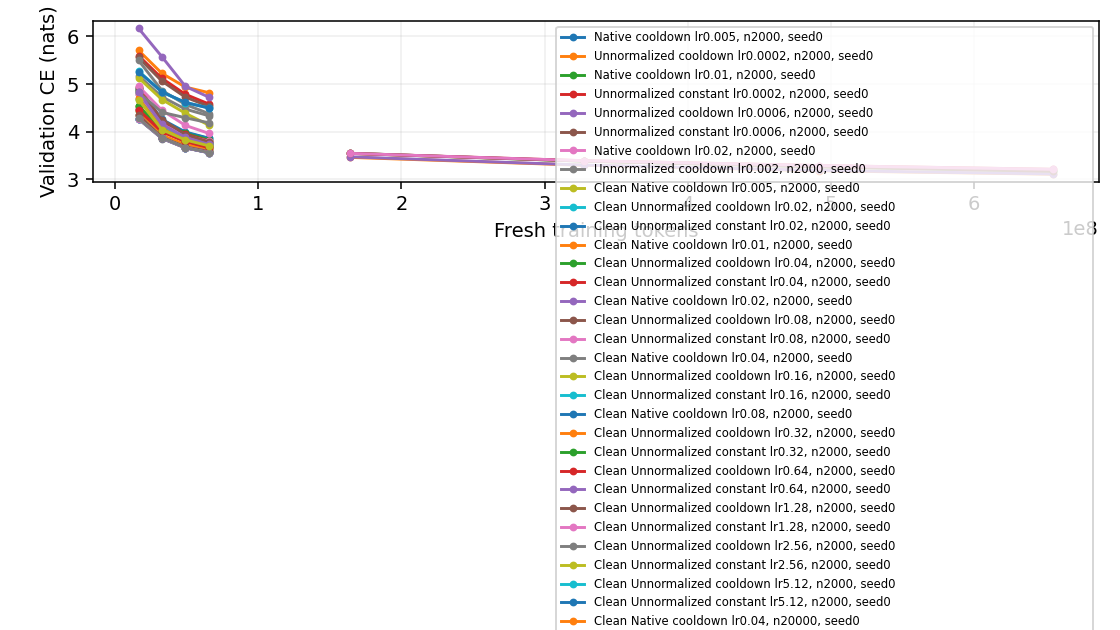
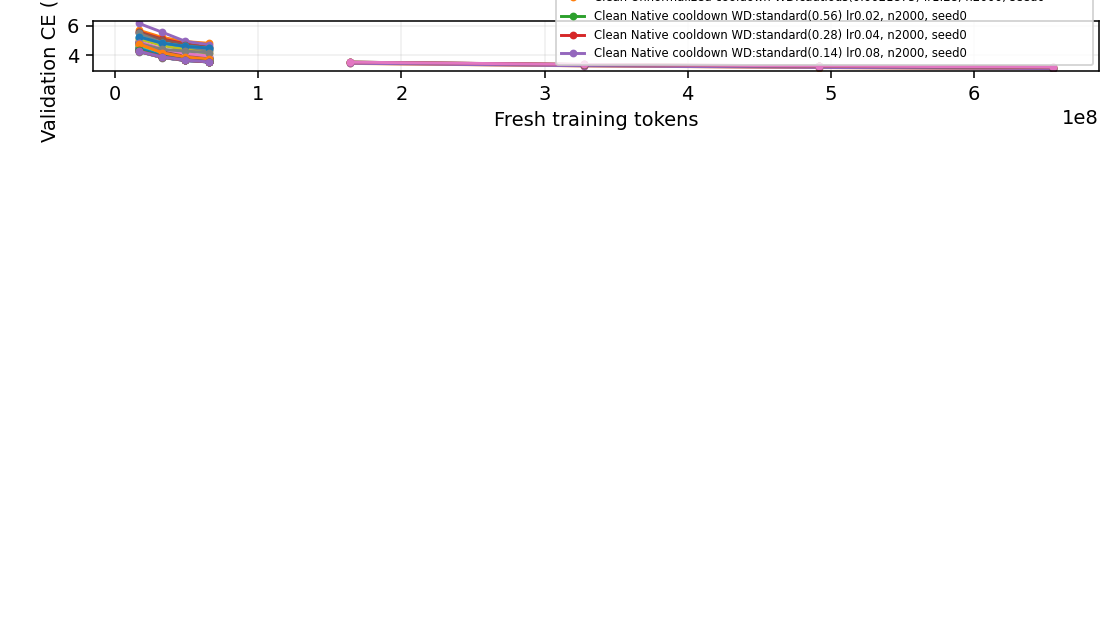
Update live Muon experiment results

Changed region(s): [[0.0312, 0.0, 1.0, 0.9952], [0.9688, 0.3317, 1.0, 0.3921]]

diff --git a/research/unnormalized_muon/DETAILED_EVAL.md b/research/unnormalized_muon/DETAILED_EVAL.md
@@ -32,6 +32,12 @@ CLI lambda = 0.28*(0.04/CLI_eta)*strength matches nominal eta*lambda exposure ac
 | normalized | cautious | 0.25 | 0.04 | 0.07 | 2000 | 3.561607 | 0.40773–0.81545 |
 | normalized | cautious | 0.25 | 0.08 | 0.035 | 2000 | 3.561807 | 0.40773–0.81545 |
 | unnormalized | cautious | 0.25 | 0.16 | 0.0175 | 2000 | 3.703818 | 0.40773–0.81545 |
+| unnormalized | cautious | 0.25 | 0.32 | 0.00875 | 2000 | 3.677685 | 0.40773–0.81545 |
+| unnormalized | cautious | 0.25 | 0.64 | 0.004375 | 2000 | 3.669621 | 0.40773–0.81545 |
+| unnormalized | cautious | 0.25 | 1.28 | 0.0021875 | 2000 | 3.741636 | 0.40773–0.81545 |
+| normalized | standard | 1 | 0.02 | 0.56 | 2000 | 3.578252 | 1.6309–3.2618 |
+| normalized | standard | 1 | 0.04 | 0.28 | 2000 | 3.568284 | 1.6309–3.2618 |
+| normalized | standard | 1 | 0.08 | 0.14 | 2000 | 3.562765 | 1.6309–3.2618 |
 
 ## FW gap-based step and line search
 
@@ -151,3 +157,14 @@ Oracle: momentum; acceptance: smoothness; compiled candidates: False; radius fac
 
 FW timing components (seconds): direction=104.832, reference=43.252, candidates=80.372, auxiliary=2.291.
 Accepted steps with measured minibatch increase: 62; acceptance has relative BF16-path numerical slack 1e-6. Reference/candidate forwards and all line-search retries are included in training time and total process time.
+
+## Fixed ordinary WD: per-layer and joint gap LR
+
+This subtopic holds the actual unmasked decay coefficient lambda fixed. P_i=Q_i+lambda W_i includes shrinkage. Native Nesterov/five NS/Frobenius are retained; row equilibration and NorMuon remain off. Native finite NS is approximate: spectral ratios are measured without claiming the exact spectral-ball theorem. Optional certified directions are separately labelled.
+
+Per-layer LR uses eta_i=min(1/lambda,[<G_i,P_i>]_+/(L||P_i||F^2)), proposed simultaneously and accepted using the complete-loss summed quadratic bound. One shared backtracked Frobenius L accounts for cross-layer changes; no52-way independent forward search. Joint-uniform shares one actual eta. Joint-native instead searches c_i P_i, clips outer eta at1/(lambda max c_i), and records actual eta_i=c_i eta; it is not a single common FW mixing coefficient.
+
+The shifted reciprocal control uses eta_i(t)=eta_i0/(1+lambda eta_i0*t/2) after40 warmup updates, with native actual eta_i0=CLI_LR*.25*c_i. This corresponds to gamma_i=2/(t+2/(lambda eta_i0)). Auxiliary schedules and native momentum are held consistent, so convex FW guarantees do not apply directly to this stochastic hybrid optimizer.
+
+| Run | Mode | Fixed lambda | Updates | Val CE | Extra batch forwards | Process sec |
+|---|---|---:|---:|---:|---:|---:|

diff --git a/research/unnormalized_muon/RESULTS.md b/research/unnormalized_muon/RESULTS.md
@@ -65,10 +65,16 @@ One B300 per job. CE is token cross-entropy (nats); lower is better. Rows with d
 | um-wd-grid-0-1-norm-lr0p04 | Clean Native cooldown WD:cautious(0.07) | 2000 | 0 | 0.04 | 3.561607 | 1.079701 | — | 152.81 |
 | um-wd-grid-0-1-norm-lr0p08 | Clean Native cooldown WD:cautious(0.035) | 2000 | 0 | 0.08 | 3.561807 | 1.079804 | — | 154.83 |
 | um-wd-grid-0-1-unnorm-lr0p16 | Clean Unnormalized cooldown WD:cautious(0.0175) | 2000 | 0 | 0.16 | 3.703818 | 1.122786 | — | 144.31 |
+| um-wd-grid-0-1-unnorm-lr0p32 | Clean Unnormalized cooldown WD:cautious(0.00875) | 2000 | 0 | 0.32 | 3.677685 | 1.114818 | — | 155.90 |
+| um-wd-grid-0-1-unnorm-lr0p64 | Clean Unnormalized cooldown WD:cautious(0.004375) | 2000 | 0 | 0.64 | 3.669621 | 1.112408 | — | 151.25 |
+| um-wd-grid-0-1-unnorm-lr1p28 | Clean Unnormalized cooldown WD:cautious(0.0021875) | 2000 | 0 | 1.28 | 3.741636 | 1.134185 | — | 154.48 |
+| um-wd-grid-1-0-norm-lr0p02 | Clean Native cooldown WD:standard(0.56) | 2000 | 0 | 0.02 | 3.578252 | 1.084742 | — | 123.82 |
+| um-wd-grid-1-0-norm-lr0p04 | Clean Native cooldown WD:standard(0.28) | 2000 | 0 | 0.04 | 3.568284 | 1.081754 | — | 129.82 |
+| um-wd-grid-1-0-norm-lr0p08 | Clean Native cooldown WD:standard(0.14) | 2000 | 0 | 0.08 | 3.562765 | 1.080099 | — | 138.94 |
 
 Review of um-fw-diagnostic-001: Compiled training f0 compared against functional candidate losses; vanishing-step mismatch2-4e-5 exceeded tolerance, leading to curvature1e186 and45 skipped steps. Replaced by paired functional reference and candidates; retain all645 measured forwards and GPUcost.
 
-Conservative charged/reserved total: 5.9228 / 30 B300 GPU-hours. Includes prior smoke/failed attempts and current maximum-duration reservations. Six-slot central queue; one B300 per run.
+Conservative charged/reserved total: 5.0948 / 30 B300 GPU-hours. Includes prior smoke/failed attempts and current maximum-duration reservations. Six-slot central queue; one B300 per run.
 
 CLEAN geometry disables row equilibration and NorMuon. Original clean runs use zero matrix decay; new WD runs explicitly label standard or cautious decay and their CLI coefficient. Same five Polar Express steps and Frobenius correction; scale by the per-matrix nonnegative FP32 inner product of the native Nesterov input with the NS/Frobenius direction. Shape scaling occurs once outside the scalar. Legacy rows retain production extras and must be compared separately. Constant schedule changes only matrix LR; auxiliary schedules and momentum remain matched.
 
